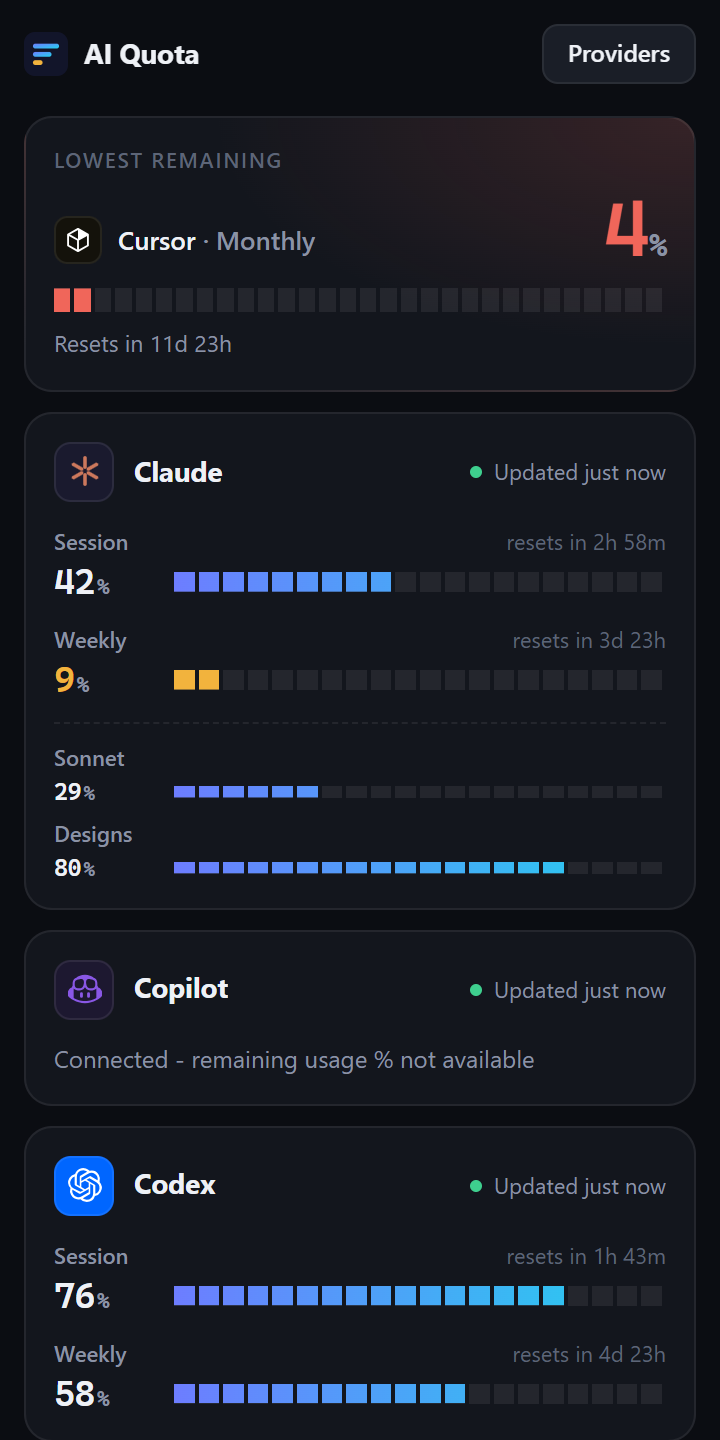
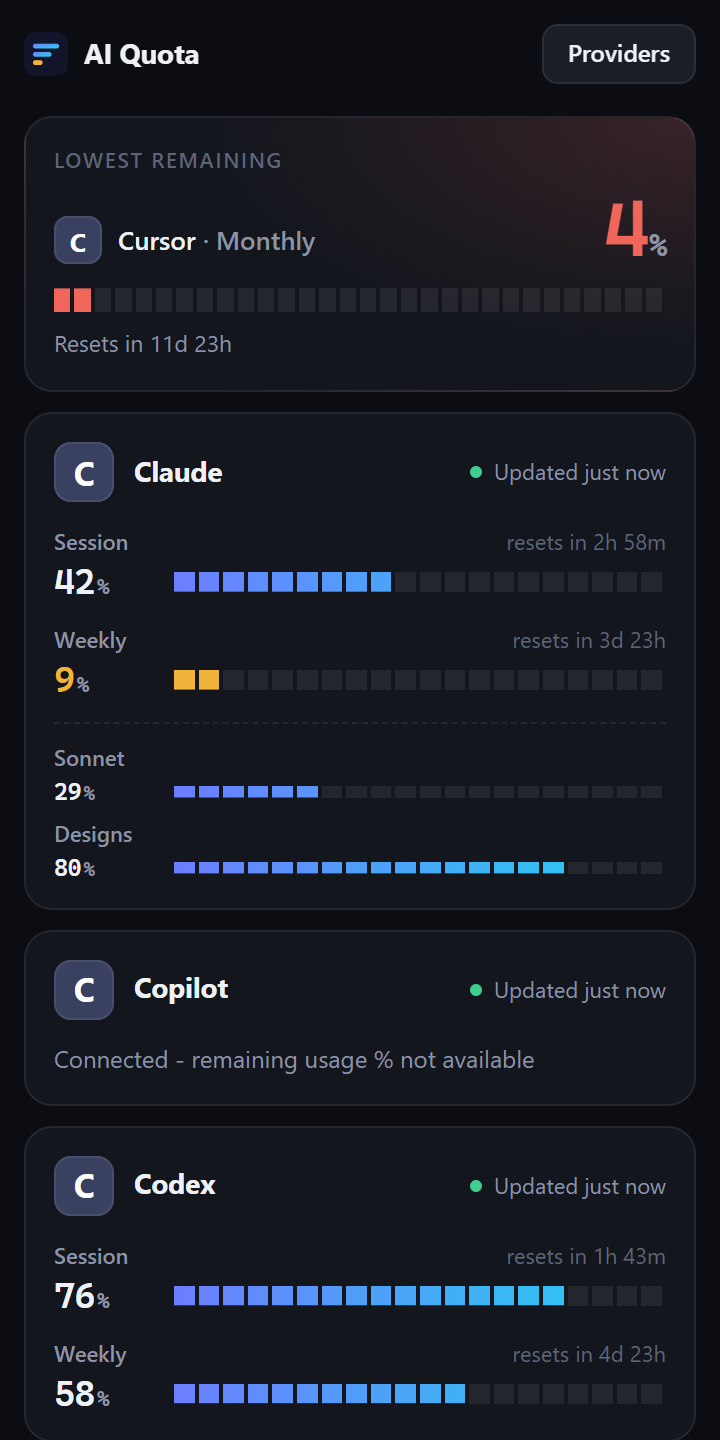
Remove brand name runs from the Chrome store listing
Store review rejected the listing for keyword stuffing.
The title and the summary had a run of service names.

- Change the title and the summary to describe the tool. Bump to 3.2.1.
- Name each service once, in a SUPPORTED SERVICES line.
- Add a "not affiliated" line and an API key step.
- Show letter tiles in place of service logos in the store art.
- Remove the service name line from the marquee, the tile and shot 1.
- Declare Website content on the Privacy tab, for the Gemini page tokens.

diff --git a/packages/chrome-ext/store/art.html b/packages/chrome-ext/store/art.html
@@ -147,7 +147,7 @@
                 <div class="sub" style="font-size:16px;margin-top:6px">Every AI limit, one glance</div>
               </div>
             </div>
-            <div style="position:relative">${bars([['Claude', 42], ['Codex', 76], ['Cursor', 4]], 15)}</div>
+            <div style="position:relative">${bars([['Session', 42], ['Weekly', 76], ['Monthly', 4]], 15)}</div>
           </div>`,
         marquee: () => `
           <div class="canvas" style="width:1400px;height:560px">
@@ -155,7 +155,7 @@
             <div style="position:absolute;left:100px;top:0;bottom:0;width:640px;display:flex;flex-direction:column;justify-content:center;gap:24px">
               <div style="display:flex;align-items:center;gap:20px">${mark(88)}<span class="name" style="font-size:60px">AI Quota Tool</span></div>
               <h1 class="headline" style="font-size:44px">See every AI limit before it stops your work</h1>
-              <p class="sub" style="font-size:22px">Claude · Codex · Gemini · Cursor · Copilot · Grok</p>
+              <p class="sub" style="font-size:22px">Session, weekly and monthly limits in one side panel</p>
             </div>
             <img class="panel fade" src="panels/dashboard-dark.png" style="position:absolute;right:120px;top:60px;height:760px" />
           </div>`,
@@ -163,7 +163,7 @@
           shot(
             'All your AI tools',
             'Every AI limit in one glance',
-            'Session, weekly and monthly limits for Claude, Codex, Gemini, Cursor and more. Live in the Chrome side panel.',
+            'Session, weekly and monthly limits for all your AI tools. Live in the Chrome side panel.',
             panel('dashboard-dark'),
           ),
         shot2: () =>

diff --git a/packages/ui/src/components/ProviderLogo.tsx b/packages/ui/src/components/ProviderLogo.tsx
@@ -39,6 +39,7 @@ export function ProviderLogo({ service, size = 32 }: { service: ServiceId; size?
   return (
     <span
       aria-hidden
+      data-service={service}
       style={{
         width: size,
         height: size,

diff --git a/packages/chrome-ext/chromeweb.md b/packages/chrome-ext/chromeweb.md
@@ -12,44 +12,37 @@ pnpm --filter @ai-quota-tool/chrome-ext zip
 Upload `packages/chrome-ext/ai-quota-tool-chrome-<version>.zip` on the **Package** tab. The version in `manifest.json` must be higher than the live version.
 Store item: https://chromewebstore.google.com/detail/dkohaadncknbgmeefnlfffdjnnlmlglh
 
+Store review reads a run of brand names as keyword stuffing. Keep brand names out of the title, the summary and the promo art. Name each service once, in the SUPPORTED SERVICES line of the description.
+
 ## Store listing tab
 
 ### Title (from manifest `name`)
 
 ```
-AI Quota Tool - AI usage limits for Claude, Codex, Cursor
+AI Quota Tool - Track your AI usage limits
 ```
 
 ### Summary (manifest `description`, 132 characters max)
 
 ```
-See AI limits before they stop your work: Claude, Codex, Gemini, Cursor and Grok usage and reset times. Free, private, no account.
+Track your AI assistant usage limits and API credit balances in one side panel. Free, private, no account.
 ```
 
 ### Description
 
 ```
-Every AI limit in one glance.
+AI Quota Tool shows how much of your AI usage allowance you have left, so you do not hit a limit in the middle of your work.
 
-AI Quota Tool shows what is left of your AI plans in the Chrome side panel. See your session, weekly and monthly limits, and the time until each one resets. Know before a limit stops your work.
-
-WORKS WITH
-• Claude - session and weekly limits, plus model limits
-• Codex (ChatGPT) - session and weekly limits
-• Gemini - 5-hour and weekly limits
-• Cursor - monthly usage
-• Grok - session and weekly limits
-• GitHub Copilot - plan status
-• DeepSeek and Kimi - API balance
+It shows your session, weekly and monthly limits in the Chrome side panel, with the time until each one resets.
 
 FEATURES
-• One panel for all your AI tools
-• Your lowest limit on top, with the time it resets
-• Clear gauges with "% left" and "resets in"
-• Toolbar badge with your lowest limit
-• One alert when a limit runs low, and one when it resets
-• Turn each provider on or off - see only the tools you use
-• Light and dark theme that follows your system
+• See what is left of your AI assistant plans at a glance
+• Check prepaid API credit balances
+• See your lowest limit on top, with the time it resets
+• Get a toolbar badge with your lowest limit
+• Get one alert when a limit runs low, and one when it resets
+• Turn each service on or off, and see only the tools you use
+• Use a light or dark theme that follows your system
 
 PRIVATE BY DESIGN
 • No server, no account, no sign-up
@@ -59,12 +52,18 @@ PRIVATE BY DESIGN
 • Open source: https://github.com/BasantPandey/AIQuotaTool
 
 HONEST NUMBERS
-If a provider does not share a number, the panel says so. It never shows a fake 100%.
+If a service does not share a number, the panel says so. It never shows a fake 100%.
 
 HOW TO START
 1. Click the toolbar icon to open the side panel.
 2. Pick your tools.
 3. Sign in to each tool in this browser, as usual. Your limits show within a minute.
+4. For an API balance, paste your API key on the Providers screen. The key stays on your device.
+
+SUPPORTED SERVICES
+Usage limits for Claude, OpenAI Codex, Gemini, Cursor and Grok. Plan status for GitHub Copilot. API balances for DeepSeek and Kimi.
+
+AI Quota Tool is not affiliated with or endorsed by any of the services listed.
 
 Website and help: https://basantpandey.github.io/AIQuotaTool/
 ```
@@ -94,7 +93,7 @@ Generate with `node scripts/store-assets.mjs` after a build. Files are in `packa
 ### Single purpose description
 
 ```
-This item shows the user their remaining AI usage limits (Claude, Codex, Copilot, Gemini, Cursor, Grok) and API balances (DeepSeek, Kimi) in one side panel. It does not do any other task.
+This item shows the user how much of their AI usage limits and API credit balances is left, in one side panel. It does not do any other task.
 ```
 
 ### Permission justifications
@@ -131,7 +130,7 @@ No. All code ships inside the extension package.
 
 ### Data usage
 
-Check only **Authentication information**. Leave every other category unchecked.
+Check **Authentication information** and **Website content**. Leave every other category unchecked.
 
 | Category | Collect? | Why |
 |---|---|---|
@@ -143,7 +142,7 @@ Check only **Authentication information**. Leave every other category unchecked.
 | Location | No | Not applicable. |
 | Web history | No | The item reads usage API responses only. |
 | User activity | No | No click, key, or scroll tracking. |
-| Website content | No | The item reads usage API responses, not page content. |
+| Website content | **Yes** | The Gemini check reads two sign-in tokens from the gemini.google.com page. Nothing leaves the device. |
 
 Certify all three disclosures:
 - Does not sell or transfer user data to third parties
